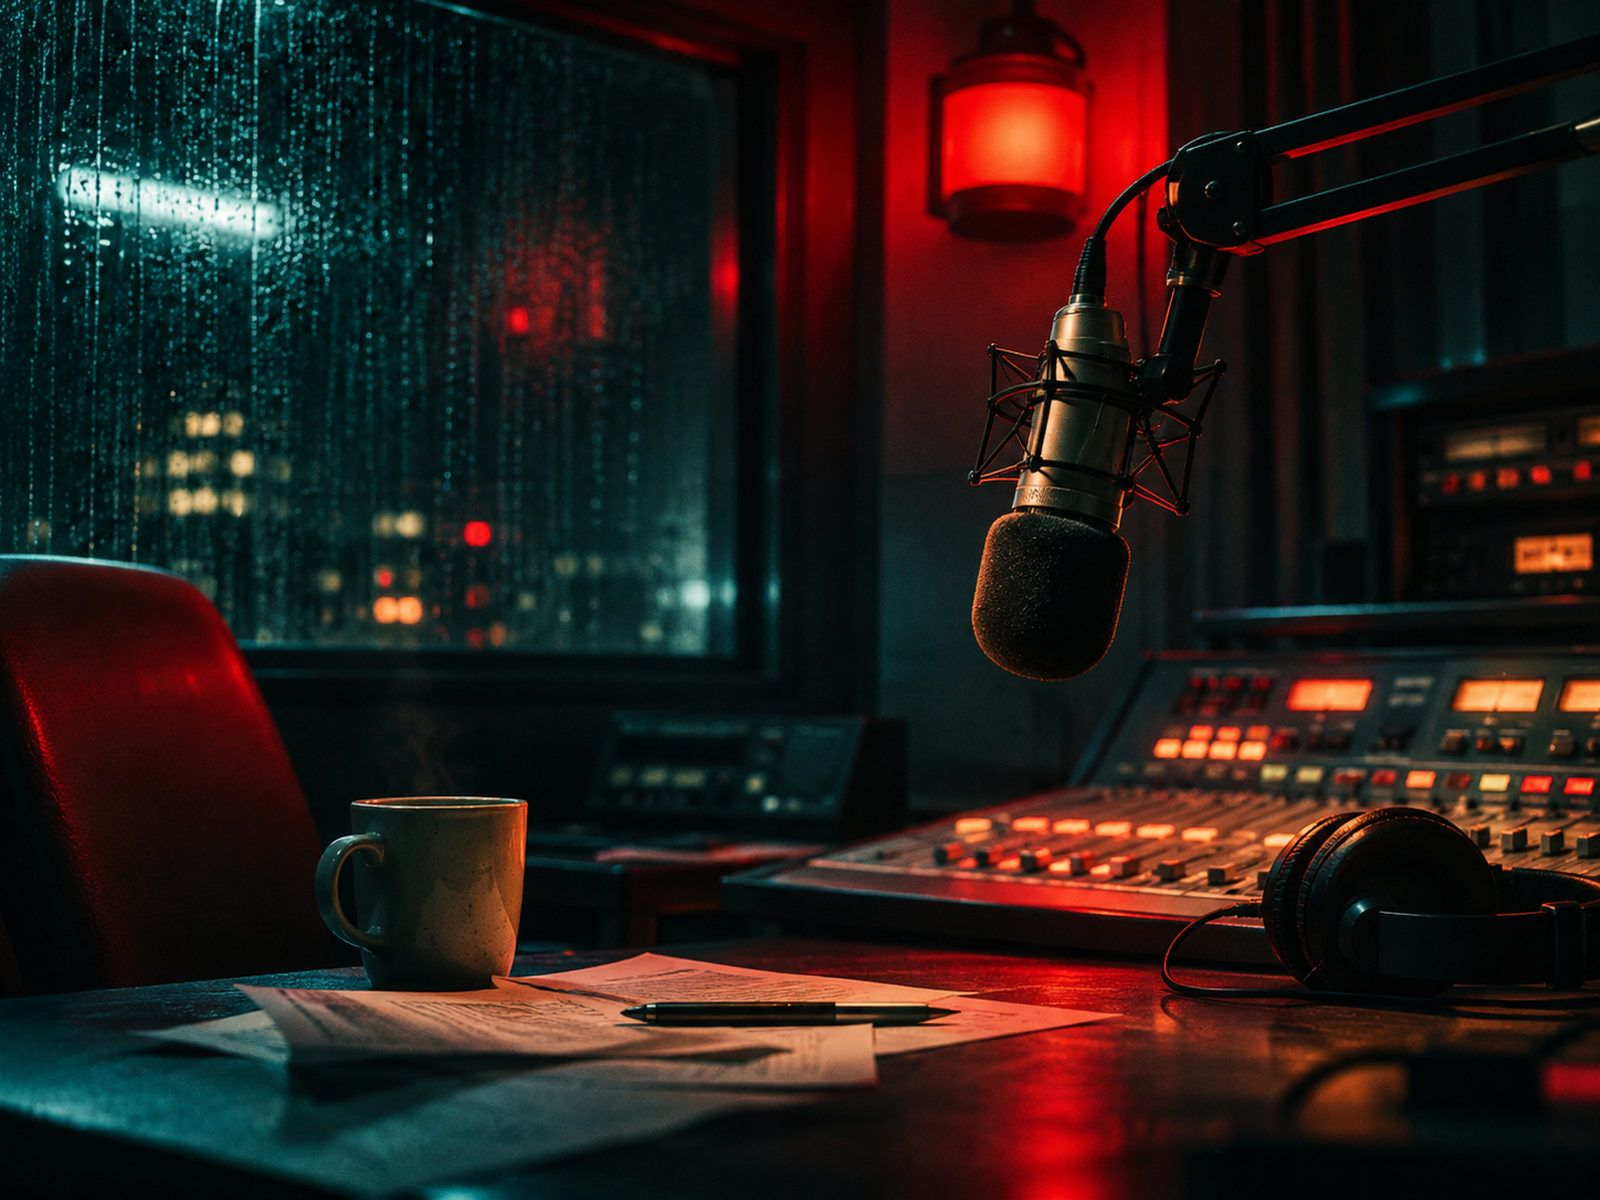
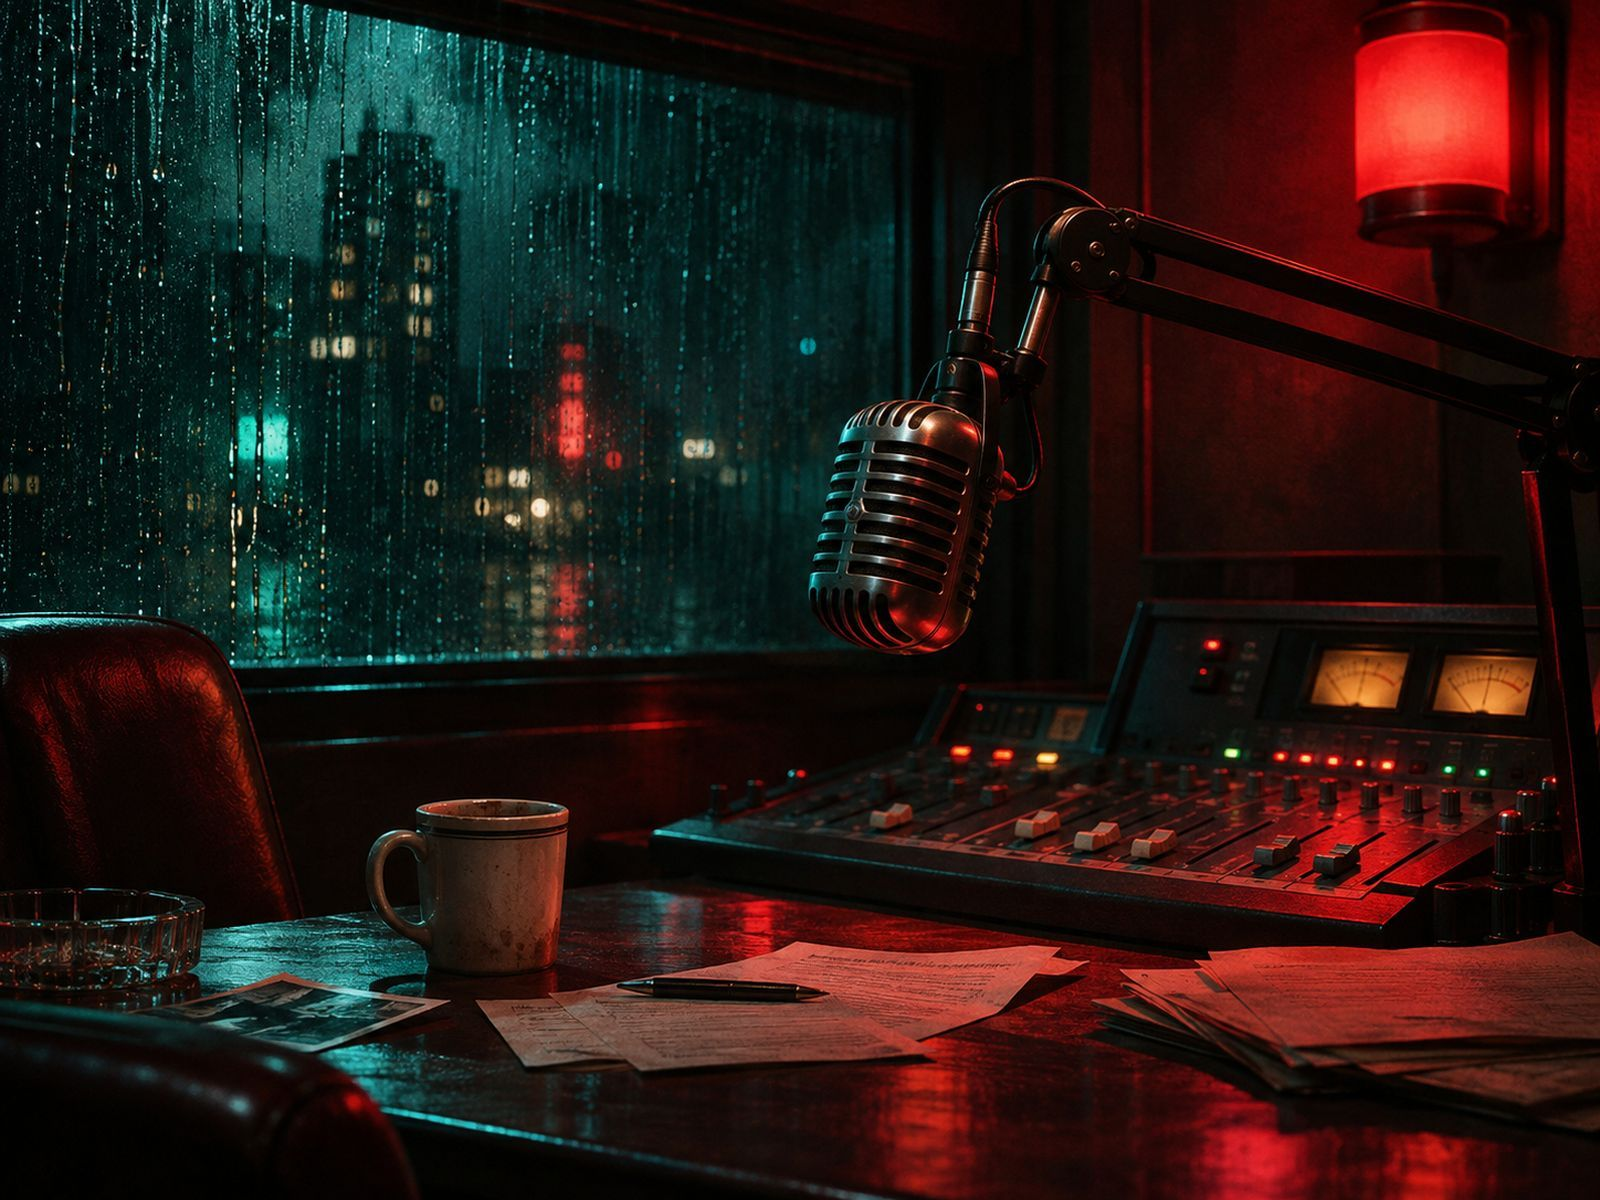
Game Night: images for Under the Floorboards and The Last Broadcast
Claude-Session: https://claude.ai/code/session_01FJR3es3tMKPDS2uyQyDB4J

diff --git a/tools/gamenight_images.md b/tools/gamenight_images.md
@@ -22,29 +22,7 @@ Evidence photo in document A01 – caption: “Screenshot of the livestream, 20:
 
 > Screenshot-style still of a concert livestream: a singer on a colourful stage, and in the lower right corner a neat donation overlay box with a square QR-code-like pattern and a heart icon, slight broadcast compression artefacts, no readable text, no logos Style: cinematic, slightly grainy editorial photo-illustration with a film-noir mood; muted palette of ink black, warm paper cream and one deep red accent; fictional, no recognisable real people, no brand logos, no readable text or numbers.
 
-## 009 · The Last Broadcast (`the-last-broadcast/`)
-
-### `the-last-broadcast/kiosk.jpg`
-Evidence photo in document C-05 – caption: “Receipt photo, ferry terminal kiosk, 00:21” · 1600 × 1200 px (4:3)
-
-> Grainy night-time photo inside a small ferry terminal kiosk under harsh fluorescent light, a woman in a dark jacket with a small wheeled suitcase standing at the counter, her face turned away and half hidden by her collar, coffee machine and rack of snacks, a ferry visible through the window, documentary snapshot style, no readable text Style: cinematic, slightly grainy editorial photo-illustration with a film-noir mood; muted palette of ink black, warm paper cream and one deep red accent; fictional, no recognisable real people, no brand logos, no readable text or numbers.
-
 ## 010 · Under the Floorboards (`under-the-floorboards/`)
-
-### `under-the-floorboards/cover.jpg`
-Case cover on the site and the printed front page · 1600 × 1200 px (4:3)
-
-> Cinematic illustration inside an old Danish country farmhouse with whitewashed walls, late summer afternoon light through a small window, two wide wooden floorboards lifted to reveal a dented old tin box with faded paint, an envelope and a curled black-and-white photograph peeking out, an apple orchard visible through the window, warm amber and dusty green palette, nostalgic mystery mood, no people, no readable text, 4:3 Style: cinematic, slightly grainy editorial photo-illustration with a film-noir mood; muted palette of ink black, warm paper cream and one deep red accent; fictional, no recognisable real people, no brand logos, no readable text or numbers.
-
-### `under-the-floorboards/tin-box.jpg`
-Evidence photo in document S-02 – caption: “The tin box under the floor” · 1600 × 1200 px (4:3)
-
-> Close-up photo of a dented vintage tin biscuit box with faded floral paint lying between lifted wooden floorboards, lid half open showing a folded yellowed letter, an old certificate and a small black-and-white photo, dust in the light, warm natural light, realistic, no readable text Style: cinematic, slightly grainy editorial photo-illustration with a film-noir mood; muted palette of ink black, warm paper cream and one deep red accent; fictional, no recognisable real people, no brand logos, no readable text or numbers.
-
-### `under-the-floorboards/photo-1979.jpg`
-Evidence photo in document S-03 – caption: “Photo from 1979, found in the tin box” · 1600 × 1200 px (4:3)
-
-> Faded 1970s colour snapshot with rounded corners and a white border: a young woman in a summer dress and an older woman in an apron standing in front of a whitewashed thatched farmhouse, a girl with long plaits seen from behind running towards them, apple trees, warm washed-out Kodachrome tones, slight blur, no readable text Style: cinematic, slightly grainy editorial photo-illustration with a film-noir mood; muted palette of ink black, warm paper cream and one deep red accent; fictional, no recognisable real people, no brand logos, no readable text or numbers.
 
 ### `under-the-floorboards/people/jens-asmussen.jpg`
 Portrait of Jens Asmussen – Peter’s brother; majority owner behind the buyer · 1024 × 1024 px (1:1)
@@ -76,4 +54,4 @@ Evidence photo in document E11 – caption: “East stairwell, 05:26” · 1600 
 > Grainy CCTV still of a red-painted station stairwell in Kolkata at dawn, a woman hurrying down the stairs and a man in a pale blue shirt following a few steps behind, faces not visible, security-camera look, no readable text Style: cinematic, slightly grainy editorial photo-illustration with a film-noir mood; muted palette of ink black, warm paper cream and one deep red accent; fictional, no recognisable real people, no brand logos, no readable text or numbers.
 
 ---
-Status: 86 of 97 images delivered.
+Status: 90 of 97 images delivered.
